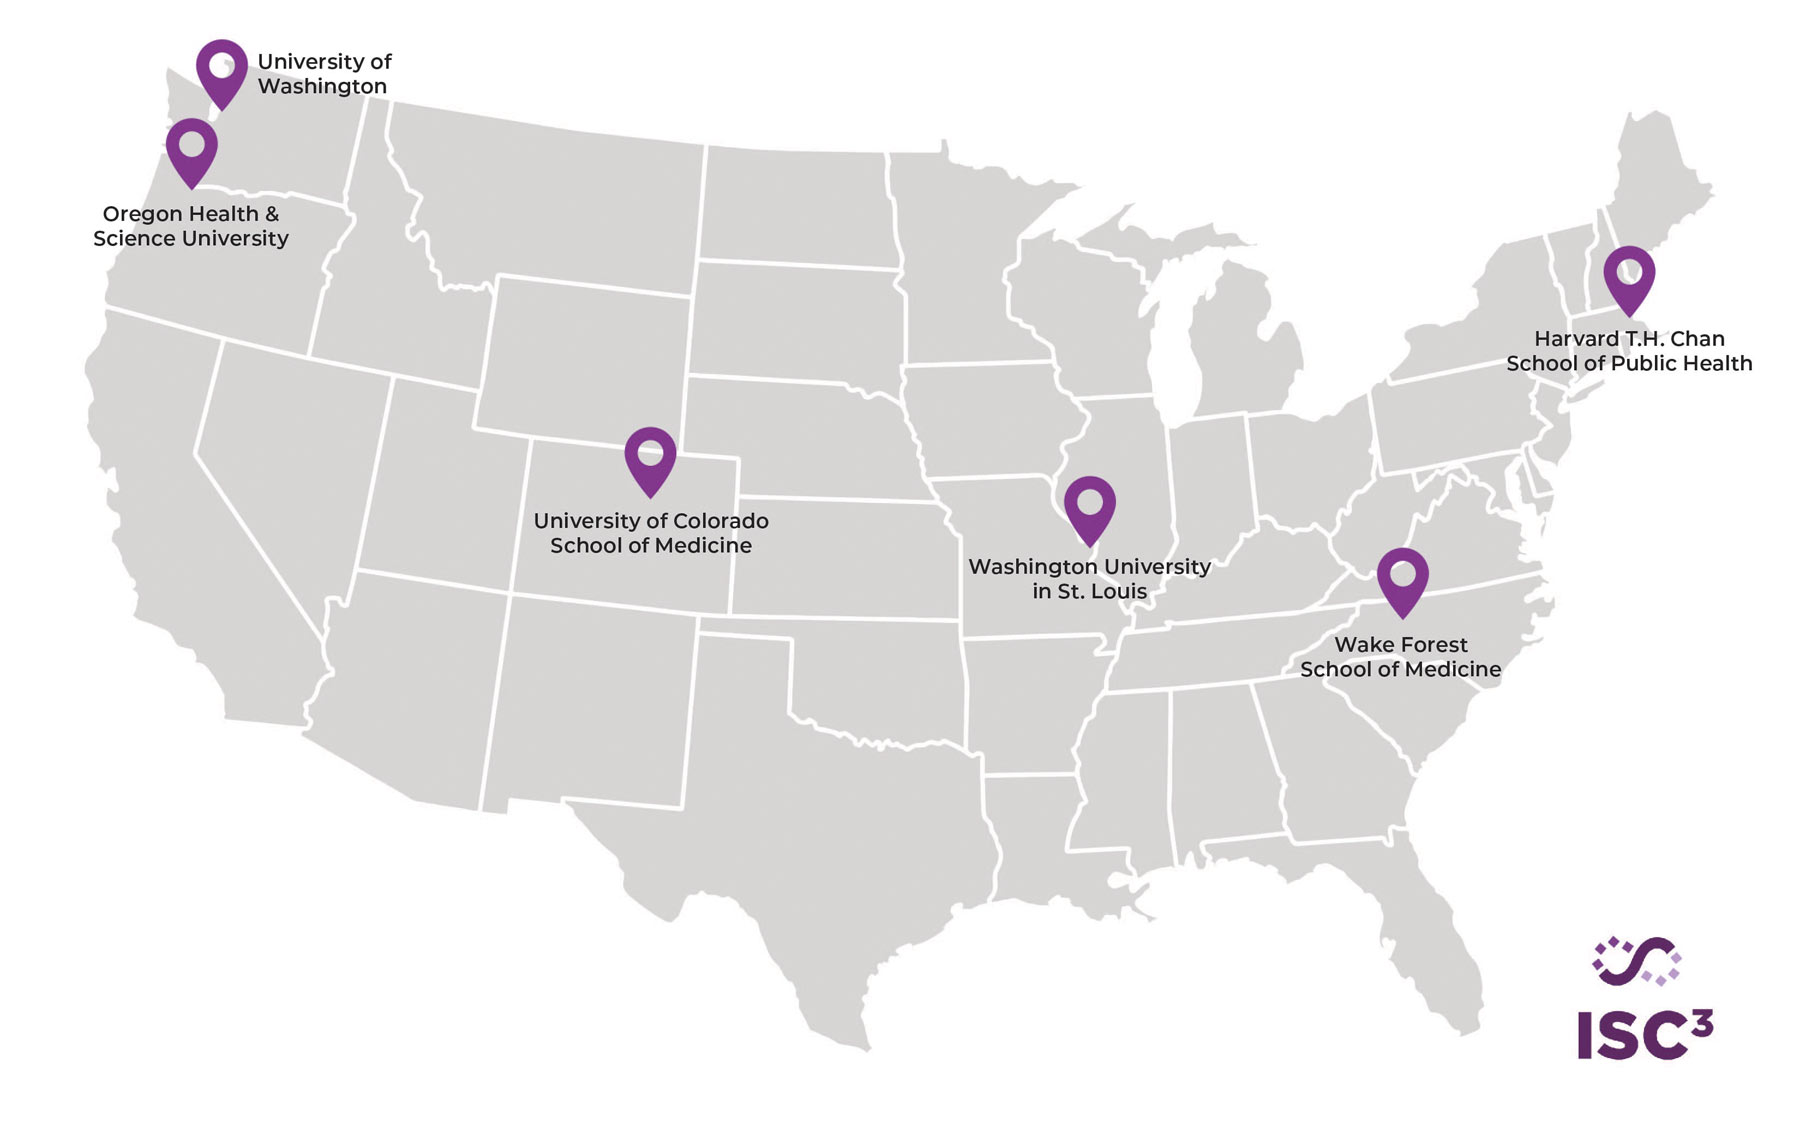
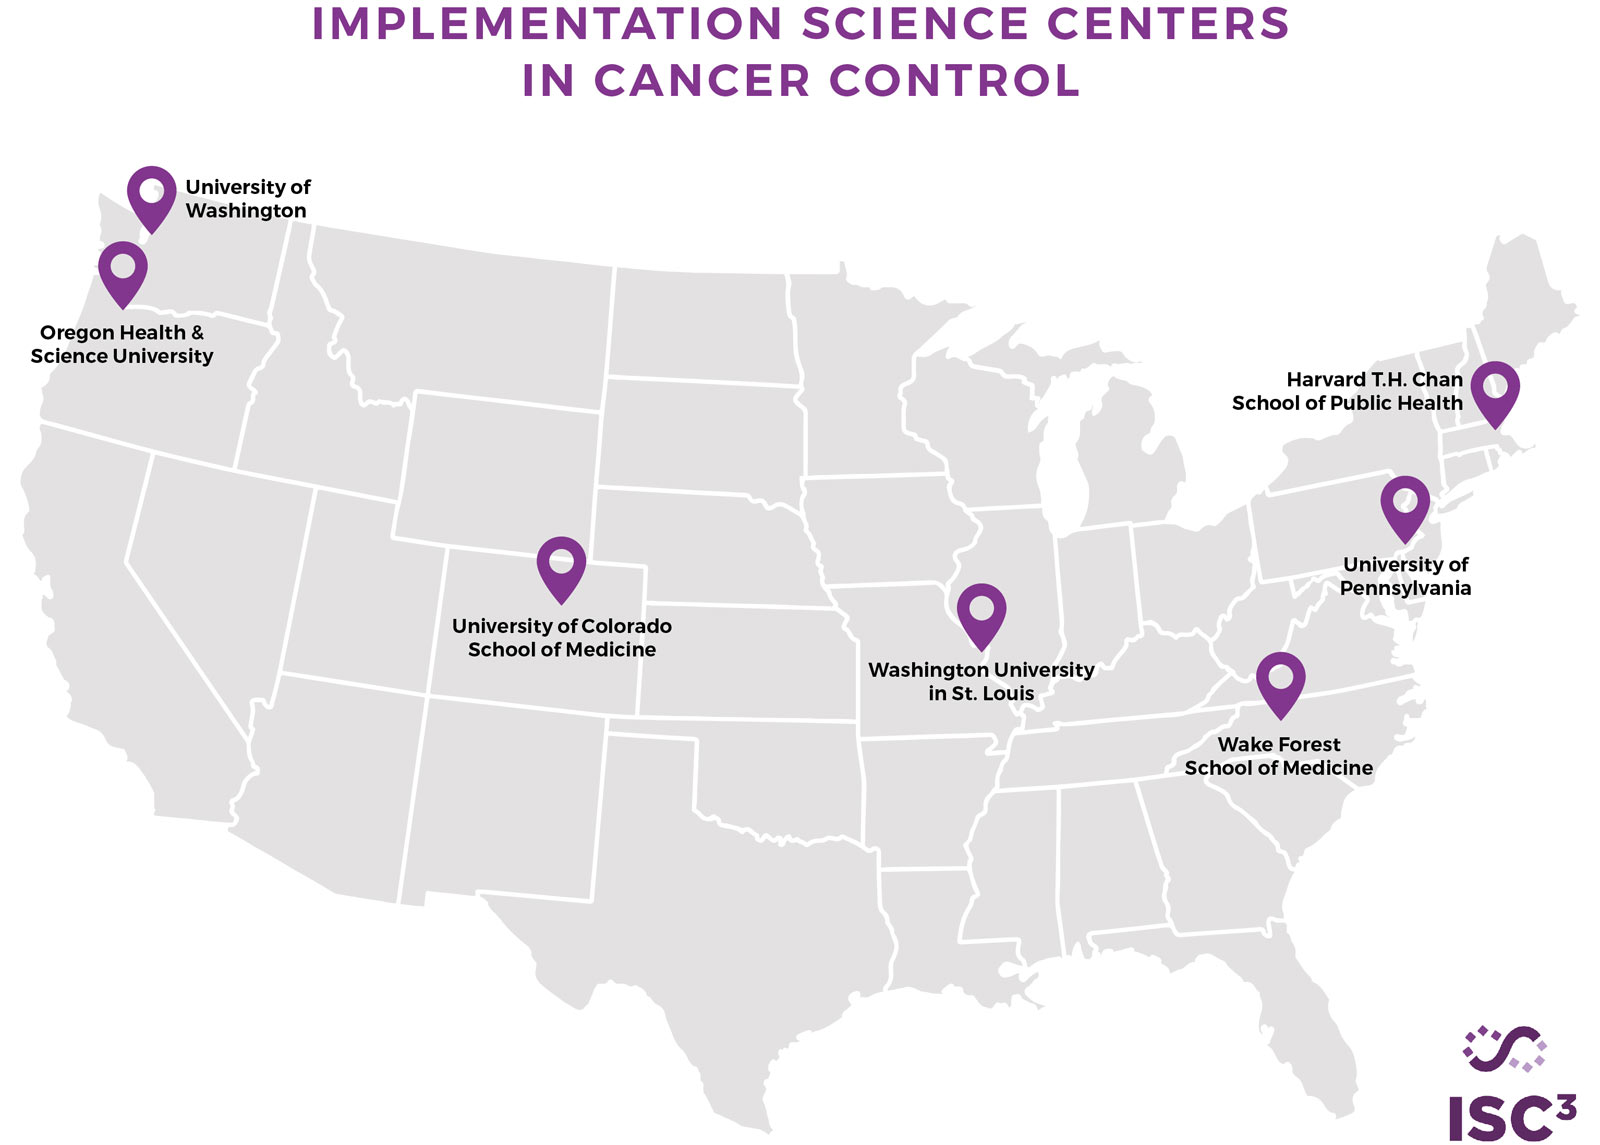
Infographic tweak

diff --git a/infographics.html b/infographics.html
@@ -307,13 +307,13 @@ height="0" width="0" style="display:none;visibility:hidden" title="Google Tag Ma
 		<!-- 45 ******************************************************** -->
 		<a class="infographic-area magnify">
 			<h2>Implementation Science Centers (P50s)</h2>
-			<img src="/images/ISC3-Infographic-Map.jpg" alt="The ISC3 Program is composed of six Centers funded by RFA-19-005 and RFA-19-006.">
+			<img src="/images/ISC3-Infographic-Map.jpg" alt="The ISC3 Program is composed of seven Centers funded by RFA-19-005 and RFA-19-006.">
 		</a> <!-- /.infographic-area -->
 		<div class="modal">
   			<span class="close cursor">&times;</span>
   			<div class="modal-content">
 				<div class="mySlides">
-       			  <img src="/images/ISC3-Infographic-Map.jpg" alt="The ISC3 Program is composed of six Centers funded by RFA-19-005 and RFA-19-006." class="img-responsive">
+       			  <img src="/images/ISC3-Infographic-Map.jpg" alt="The ISC3 Program is composed of seven Centers funded by RFA-19-005 and RFA-19-006." class="img-responsive">
     			</div> <!-- /.mySlides -->
      			<div class="caption-container">
                     <p class="caption"><a href="/IS/initiatives/ISC3.html" target="_blank">Implementation Science Centers in Cancer Control (ISC<sup>3</sup>)</a></p>
